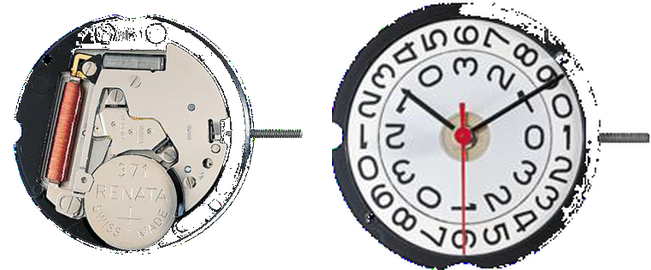
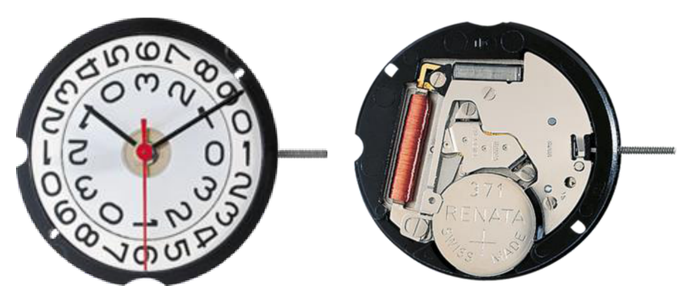
Re-extract Ronda 505_24H, 509-3, 515-24H with correct alpha handling
Each PDF page has 2 stacked images (front + back view) with SMask
transparency. Previous extraction took only the first image and manually
composited RGBA, which washed out dark mechanical parts.

New approach: render each image rect via page.get_pixmap(clip=rect) so
the PDF renderer handles SMask compositing correctly, then stitch both
views side-by-side at 270px height.

diff --git a/scripts/fix-ronda-integrity.py b/scripts/fix-ronda-integrity.py
@@ -1,0 +1,125 @@
+"""
+fix-ronda-integrity.py
+Re-extract 505_24H, 509-3, 515-24H from the Ronda PDF.
+
+Each page has 2 stacked images (front + back/diagram).
+Strategy:
+  1. Render each image rect via page.get_pixmap(clip=rect) — PDF renderer
+     handles SMask compositing correctly, no manual alpha math.
+  2. Crop white borders on each rendered crop.
+  3. Scale both to target_h=270, stitch horizontally with 20px white gap.
+  4. Overwrite existing PNG.
+"""
+
+import fitz
+from PIL import Image
+import numpy as np
+import os
+
+PDF_PATH = "public/catalogos/movimientos-ronda.pdf"
+OUT_DIR  = "public/images/productos/movimientos-ronda"
+
+# page 0-index → safe output filename
+PAGE_TARGETS = {
+    1: "505_24H",
+    4: "509-3",
+    5: "515-24H",
+}
+
+TARGET_H = 270
+GAP      = 20
+
+
+def render_rect(page, rect, scale=2.0):
+    """Render page region to RGB ndarray at scale×."""
+    mat = fitz.Matrix(scale, scale)
+    pix = page.get_pixmap(matrix=mat, clip=rect, colorspace=fitz.csRGB)
+    arr = np.frombuffer(pix.samples, dtype=np.uint8).reshape(pix.height, pix.width, 3).copy()
+    return arr
+
+
+def crop_white(arr, threshold=245, pad=8):
+    """Trim white margins. Returns tight crop with `pad` px of breathing room."""
+    dark = (arr[:, :, 0] < threshold) | (arr[:, :, 1] < threshold) | (arr[:, :, 2] < threshold)
+    rows = np.any(dark, axis=1)
+    cols = np.any(dark, axis=0)
+    if not np.any(rows):
+        return arr
+    r0 = max(0, int(np.argmax(rows)) - pad)
+    r1 = min(arr.shape[0], arr.shape[0] - int(np.argmax(rows[::-1])) + pad)
+    c0 = max(0, int(np.argmax(cols)) - pad)
+    c1 = min(arr.shape[1], arr.shape[1] - int(np.argmax(cols[::-1])) + pad)
+    return arr[r0:r1, c0:c1]
+
+
+def resize_to_height(arr, target_h):
+    ih, iw = arr.shape[:2]
+    if ih == 0 or iw == 0:
+        return arr
+    nw = max(1, int(iw * target_h / ih))
+    return np.array(Image.fromarray(arr).resize((nw, target_h), Image.LANCZOS))
+
+
+def stitch(crops, target_h=TARGET_H, gap=GAP):
+    """Scale each crop to target_h, join horizontally with white gap."""
+    scaled = [resize_to_height(c, target_h) for c in crops]
+    white_gap = np.full((target_h, gap, 3), 255, dtype=np.uint8)
+    parts = []
+    for i, s in enumerate(scaled):
+        if i > 0:
+            parts.append(white_gap)
+        parts.append(s)
+    result = np.concatenate(parts, axis=1)
+    pad = 16
+    out = np.full((target_h + pad * 2, result.shape[1] + pad * 2, 3), 255, dtype=np.uint8)
+    out[pad:pad + target_h, pad:pad + result.shape[1]] = result
+    return out
+
+
+doc = fitz.open(PDF_PATH)
+print(f"PDF: {len(doc)} pages\n")
+
+for pg_idx, safe_name in PAGE_TARGETS.items():
+    page = doc[pg_idx]
+    imgs = page.get_images(full=True)
+    print(f"── {safe_name} (page {pg_idx + 1}) — {len(imgs)} embedded image(s)")
+
+    if not imgs:
+        print("  SKIP: no images on page")
+        continue
+
+    # Collect rects for all embedded images, sorted top→bottom
+    rects = []
+    for img_info in imgs:
+        xref = img_info[0]
+        img_rects = page.get_image_rects(xref)
+        if img_rects:
+            rects.append((img_rects[0].y0, img_rects[0], xref))
+
+    rects.sort(key=lambda t: t[0])  # top-to-bottom order
+
+    crops = []
+    for y0, rect, xref in rects:
+        rendered = render_rect(page, rect, scale=2.0)
+        cropped  = crop_white(rendered, threshold=245, pad=8)
+        print(f"  img xref={xref}: rect {int(rect.width)}×{int(rect.height)} pts "
+              f"→ rendered {rendered.shape[1]}×{rendered.shape[0]} "
+              f"→ cropped {cropped.shape[1]}×{cropped.shape[0]}")
+        crops.append(cropped)
+
+    if len(crops) == 1:
+        # Single view — just scale to target height with padding
+        result = resize_to_height(crops[0], TARGET_H)
+        pad = 16
+        out = np.full((TARGET_H + pad * 2, result.shape[1] + pad * 2, 3), 255, dtype=np.uint8)
+        out[pad:pad + TARGET_H, pad:pad + result.shape[1]] = result
+        final = out
+    else:
+        final = stitch(crops)
+
+    out_path = os.path.join(OUT_DIR, f"{safe_name}.png")
+    Image.fromarray(final).save(out_path)
+    print(f"  → Saved {out_path} ({final.shape[1]}×{final.shape[0]})\n")
+
+doc.close()
+print("Done.")